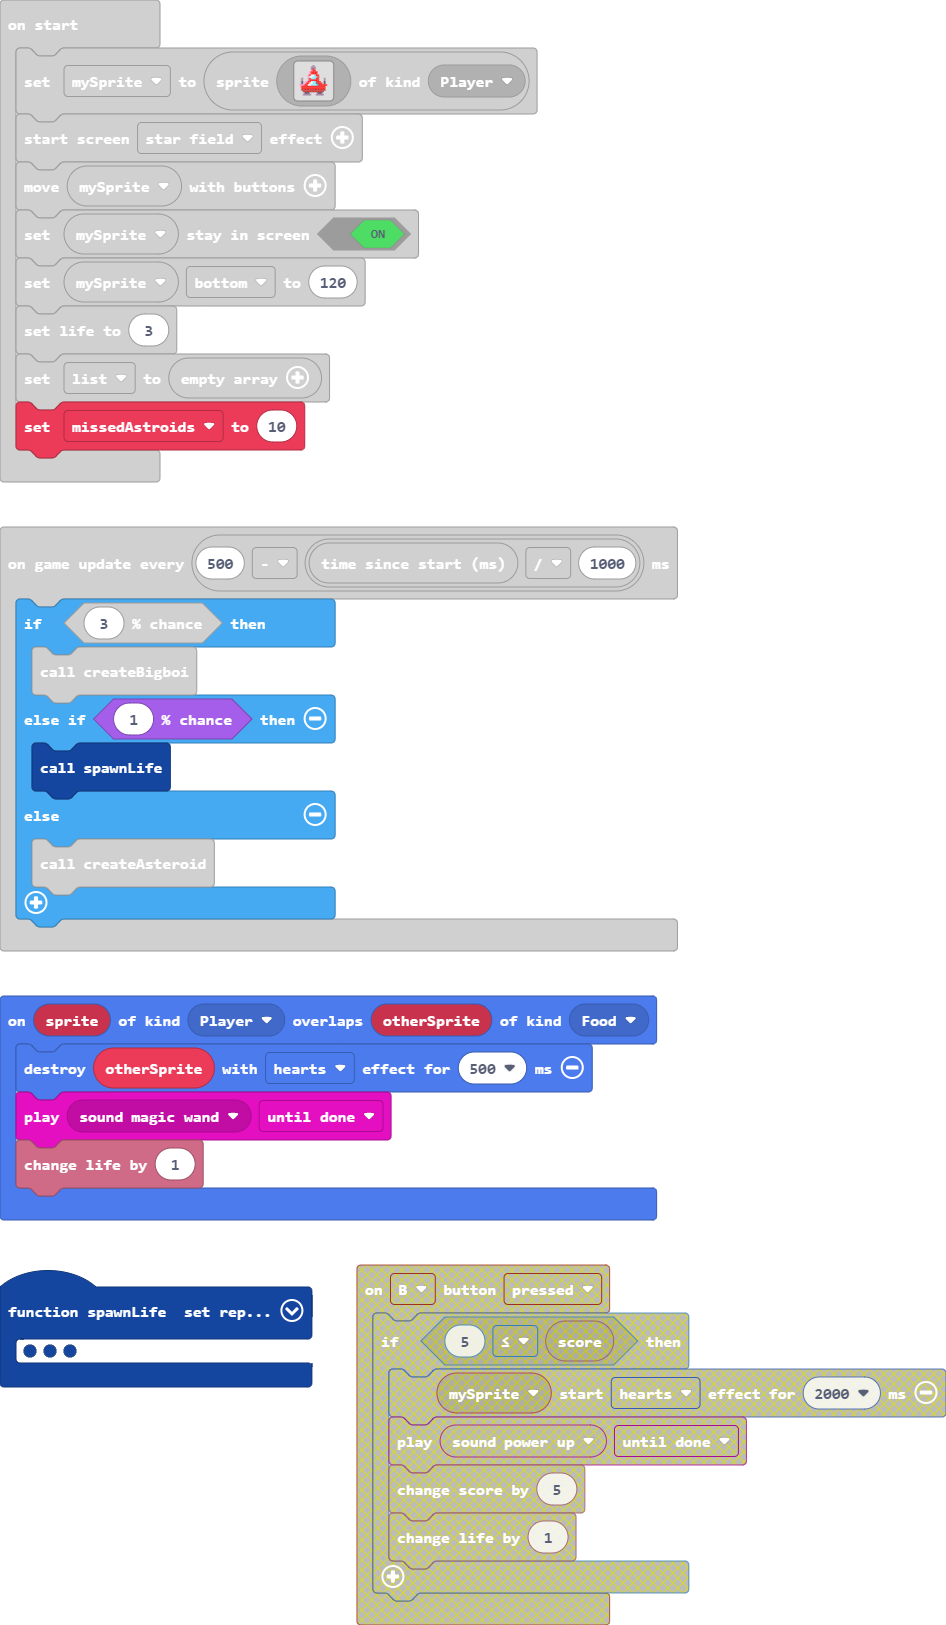
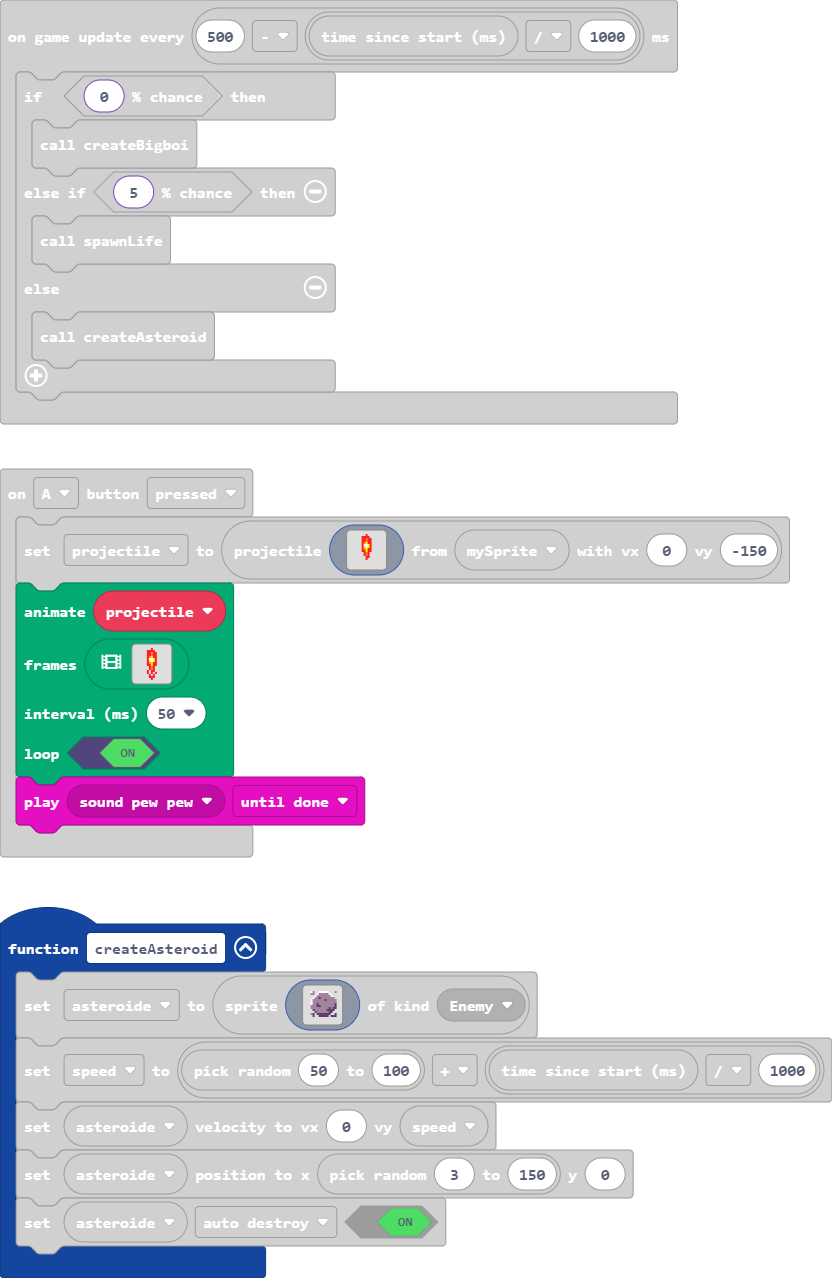
Update main.blocks, main.ts

diff --git a/main.ts b/main.ts
@@ -66,41 +66,81 @@ function createBigboi () {
 }
 controller.A.onEvent(ControllerButtonEvent.Pressed, function () {
     projectile = sprites.createProjectileFromSprite(img`
-        . . . . . . . . . . . . . . . . 
-        . . . . . . . 2 . . . . . . . . 
-        . . . . . 2 2 2 2 . . . . . . . 
-        . . . . . 2 2 4 2 2 . . . . . . 
-        . . . . . 2 2 4 2 2 . . . . . . 
-        . . . . . 2 4 5 2 2 . . . . . . 
-        . . . . . 2 1 1 5 2 . . . . . . 
-        . . . . . 2 5 1 5 2 . . . . . . 
-        . . . . . 2 4 5 2 2 . . . . . . 
-        . . . . . 2 2 5 2 2 . . . . . . 
-        . . . . . . 2 4 2 . . . . . . . 
-        . . . . . . 2 4 2 . . . . . . . 
-        . . . . . . . 2 2 . . . . . . . 
-        . . . . . . . 2 . . . . . . . . 
-        . . . . . . . . . . . . . . . . 
-        . . . . . . . . . . . . . . . . 
+        . . 2 . . 
+        2 2 2 2 . 
+        2 2 4 2 2 
+        2 2 4 2 2 
+        2 4 5 2 2 
+        2 1 1 5 2 
+        2 5 1 5 2 
+        2 4 5 2 2 
+        2 2 5 2 2 
+        . 2 4 2 . 
+        . 2 4 2 . 
+        . . 2 2 . 
+        . . 2 . . 
+        . . . . . 
+        . . . . . 
+        . . . . . 
         `, mySprite, 0, -150)
+    animation.runImageAnimation(
+    projectile,
+    [img`
+        . . 2 . . 
+        2 2 2 2 . 
+        2 2 4 2 2 
+        2 2 4 2 2 
+        2 4 5 2 2 
+        2 1 1 5 2 
+        2 5 1 5 2 
+        2 4 5 2 2 
+        2 2 5 2 2 
+        . 2 4 2 . 
+        . 2 4 2 . 
+        2 . 2 2 . 
+        2 . 2 . 2 
+        . 2 . 2 . 
+        . 2 2 2 . 
+        . . 2 . . 
+        `,img`
+        . . 2 . . 
+        . 2 2 2 2 
+        2 2 4 2 2 
+        2 2 4 2 2 
+        2 2 5 4 2 
+        2 5 1 1 2 
+        2 5 1 5 2 
+        2 2 5 4 2 
+        2 2 5 2 2 
+        . 2 4 2 . 
+        . 2 4 2 . 
+        . 2 2 . 2 
+        2 . 2 . 2 
+        . 2 . 2 . 
+        . 2 2 2 . 
+        . . 2 . . 
+        `],
+    50,
+    true
+    )
     music.play(music.melodyPlayable(music.pewPew), music.PlaybackMode.UntilDone)
 })
 function createAsteroid () {
     asteroide = sprites.create(img`
         . . . . . . . . . . . . . . . . 
-        . . b b . . 1 1 1 1 1 . . . b . 
+        . . 1 b . . 1 1 1 1 1 . . . b . 
         . . b b . 1 b b b b b 1 . . . . 
         . . . . 1 b b b b b b b 1 . . . 
-        . . . 1 b b c b b b b b b 1 . . 
-        . . 1 b b b b b b c b b b b 1 . 
-        . . 1 b b b b b b b b b b b 1 . 
-        . . 1 b b c b b b b b b b b 1 . 
-        . . 1 b b c c b b b b b b b 1 . 
-        . . 1 b b b b b b b b c b b 1 . 
-        . . . 1 b b b b b b c c b 1 . . 
-        . . . . 1 b b b b b b b 1 . . . 
-        . . b b . 1 b b b b b 1 . . b . 
-        . . . b . . 1 1 1 1 1 . b b b . 
+        . . . 1 b b c b b b b b b b . . 
+        . . 1 b b b b b b c b b b b b . 
+        . . 1 b b b b b b b b b b b b . 
+        . . 1 b b c b b b b b b b b c . 
+        . . b b b c c b b b b b b b c . 
+        . . b b b b b b b b b c b c c . 
+        . . . c b b b b b b c c c c . . 
+        . . . . c b b b b b b c c . . . 
+        . . b c . c c c c c c c . . c . 
+        . . . c . . c c c c c . c c c . 
         . . . . . . . . . . . . . . . . 
         . . . . . . . . . . . . . . . . 
         `, SpriteKind.Enemy)
@@ -286,9 +326,9 @@ game.onUpdateInterval(100, function () {
     }
 })
 game.onUpdateInterval(500 - game.runtime() / 1000, function () {
-    if (Math.percentChance(3)) {
+    if (Math.percentChance(0)) {
         createBigboi()
-    } else if (Math.percentChance(1)) {
+    } else if (Math.percentChance(5)) {
         spawnLife()
     } else {
         createAsteroid()
